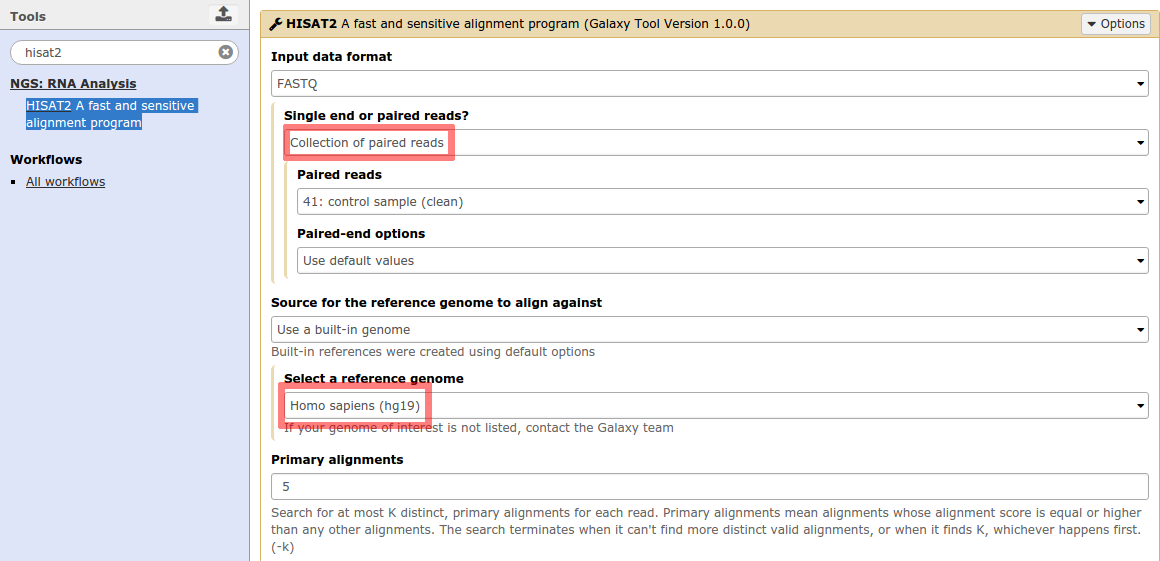
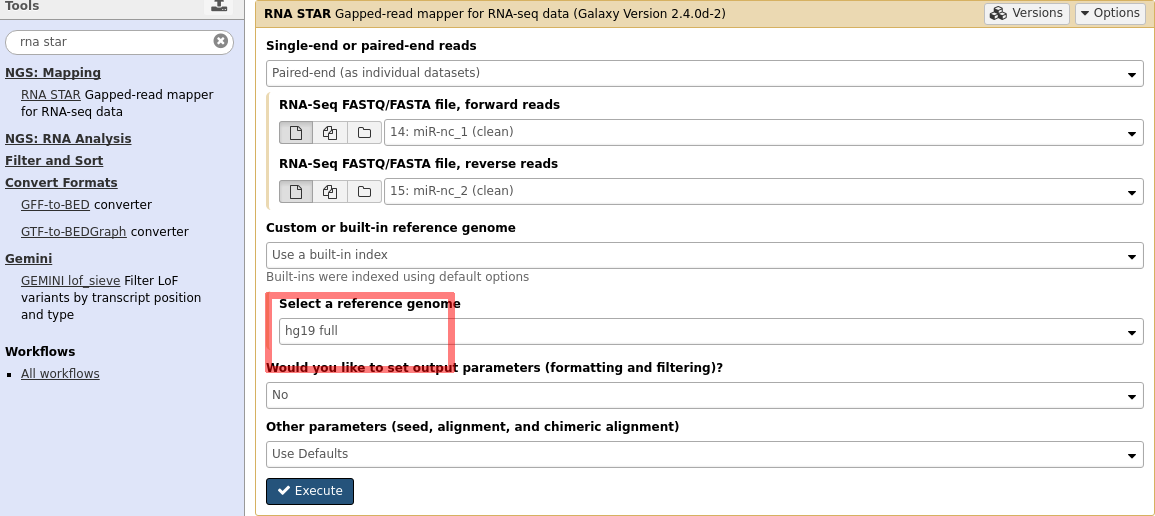
STAR and HISAT fixes and unified

Changed region(s): [[0.0, 0.0, 1.0, 1.0], [0.0, 0.6512, 0.0935, 0.7442], [0.0, 0.4341, 0.1558, 0.4651]]

diff --git a/Galaxy_RNA-Seq_DGE/Galaxy_RNA-Seq_DGE_manual_Module_alignment.tex b/Galaxy_RNA-Seq_DGE/Galaxy_RNA-Seq_DGE_manual_Module_alignment.tex
@@ -1,22 +1,22 @@
 \section{RNA-Seq: alignment}
-To make more sense of the RNA-Seq data, we try to find the sequences back in the reference genome (mapping, aligning). The reference
-genome should represent the most common sequence of the chromosomes of the human population. Please read the first paragraph (3 scentences) of the following url: \url{http://en.wikipedia.org/wiki/Reference_genome}
+To make more sense of the RNA-Seq data, we try to locate the detected sequences back in a reference genome (this is often called mapping and aligning). The reference genome should represent the most common sequence of the chromosomes of the human population. Please read the first paragraph (3 scentences) of the following url: \url{http://en.wikipedia.org/wiki/Reference_genome}
 \begin{itemize}
 	\item On how many individuals is hg19 based?
 \end{itemize}
-For RNA-Seq we need specialized RNA aligners, able to cope with gaps that originate from splicing. For this exercise we will make use of a tool called RNA-STAR. There are quite some of these aligners around. We will make use the tool ``\textit{\underline{HISAT2} A fast and sensitive alignment program}''. Load the aligner, select the following settings and leave the rest on default, and run an alignment for \textit{miR-23b (clean)} and \textit{control sample (clean)}. \textbf{Alignment is a computational very very heavy task so do NOT re-run or load it twice, or you have to give a treat:}\\
+For RNA-Seq we need specialized RNA aligners, able to cope with gaps that originate from splicing. There are quite some of these aligners around. We will make use the tool ``\textit{\underline{RNA STAR} Gapped-read mapper for RNA-seq data}''. Load the aligner, select the following settings and leave the rest on default, and run an alignment for \textit{miR-23b (clean)} and \textit{control sample (clean)}. \textbf{Alignment is a computational very very heavy task so do NOT re-run it if you don't have a good reason, or you will have to give a treat:}\\
 \includegraphics[width=\textwidth]{figures/alignment_01.png}\\
-Please rename the \textit{HISAT2 on ...} to ``\textit{HISAT2 on miR-23b}'' and ``\textit{HISAT2 on control sample}''.
-If the alignments do not have their \textbf{database} set, change it to hg19 as follows:\\
+Please rename the \textit{RNA STAR on ...: starmapped.bam} to ``\textit{RNA STAR on miR-23b: starmapped.bam}'' and ``\textit{RNA STAR on control sample: starmapped.bam}'' or something else that makes it easy to recognize.
+If the alignments do not have their \textbf{database} (also referred to as \textbf{dbkey}) set, change it to hg19 as follows:\\
 \includegraphics[width=\textwidth]{figures/alignment_02.png}\\
-To get some general alignment statistics, run the tool ``\textit{\underline{Flagstat} tabulate descriptive stats for BAM datset}'' on \textit{HISAT2 on miR-23b}.
+To get some general alignment statistics, run the tool ``\textit{\underline{Flagstat} tabulate descriptive stats for BAM datset}'' on \textit{miR-23b}.
 \begin{itemize}
 	\item How many reads are multi-mapping?
 \end{itemize}
-For now we have only seen FastQ data and some summaries. To get an idea of what has been measured during the experiment, we can visualise the alignment. So, in the HISAT2 step we have been looking into hg19 where these sequences can be found in the reference genome, and this information is stored in those bam files. Import from the Shared Data library (TraIT Galaxy Training Materials $\rightarrow$ TraIT Galaxy Training - 3: RNA-Seq Tuxedo Pipeline) the file ``\textit{ucsc\_refseq.gtf}'' into your history. Start the built-in visualization Trackster at one of the alignments (make sure the dataset has \textbf{hg19} as database because we aligned to that):\\
+For now we have only seen FASTQ and summary files. To get an idea of what has been measured during the experiment, we can visualise the alignment. So, in the alignnment step we have been looking in hg19 where these sequences originate from, and this information is stored in the bam files. Import from the Shared Data library (\datalibrarydirrnaseqadvanced) the file ``\textit{ucsc\_refseq.gtf}'' into your history. Start the built-in visualization Trackster at one of the alignments (make sure the database is set to \textbf{hg19}):\\
 \includegraphics[scale=0.55]{figures/alignment_03}\\
-Give it a name, press \textit{Create} and you will see a yellow bar, indicating that the bam file is being prepared. This means that the bam file is being convert into a file format that the browser can visualize. \includegraphics[width=\textwidth]{figures/alignment_04.png}\\
-When this job is done, and it looks like this, make sure you save it:\\
+Give it a name, press \textit{Create} and you will see a yellow bar, indicating that the bam file is being prepared. This means that the bam file is being converted into a file format that the browser is able to visualize.\\
+\includegraphics[width=\textwidth]{figures/alignment_04.png}\\
+When this job is done, and it contains no error messages in the bars, which should look like the figure below, save it:\\
 \includegraphics[width=\textwidth]{figures/alignment_05.png}\\
 To add the other alignment, press the \textbf{[+]}-button:\\
 \includegraphics[width=\textwidth]{figures/alignment_06.png}\\

diff --git a/Galaxy_RNA-Seq_DGE/Galaxy_RNA-Seq_DGE_manual.tex b/Galaxy_RNA-Seq_DGE/Galaxy_RNA-Seq_DGE_manual.tex
@@ -39,7 +39,7 @@ Due to the rapid development of Galaxy, screenshots and results may be out of da
 \input{Galaxy_RNA-Seq_DGE_manual_Module_alignment.tex}
 
 
-
+\tuxedofalse
 \iftuxedo
 	% Module tuxedo:
 	\input{Galaxy_RNA-Seq_DGE_manual_Module_tuxedo.tex}

diff --git a/configure_EMCmay2016.tex b/configure_EMCmay2016.tex
@@ -24,3 +24,5 @@
 		$\rightarrow$
 	EMC Galaxy Training - 5: Advanced RNA-Seq Analysis
 }
+
+\tuxedofalse
